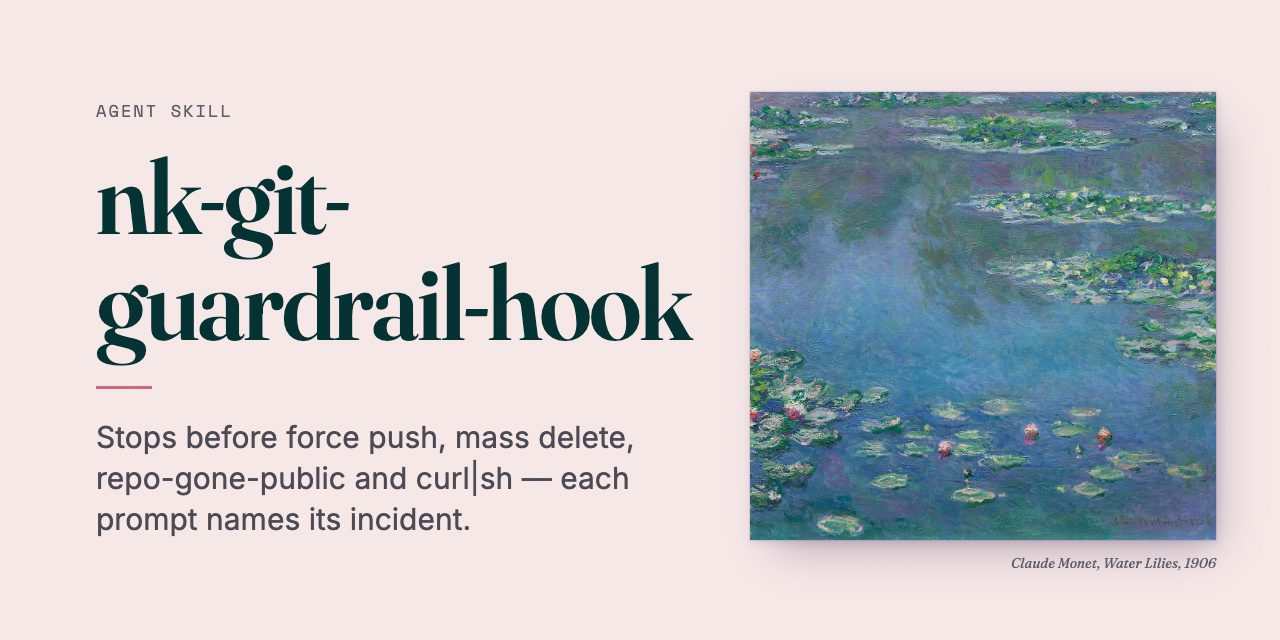
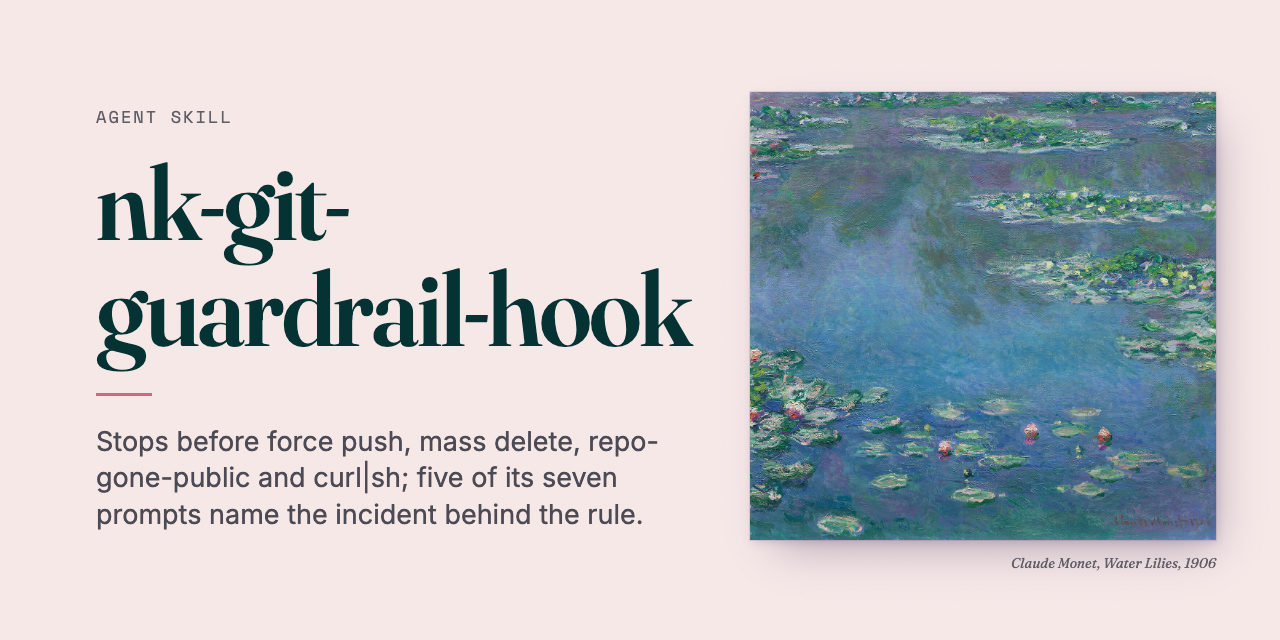
nk-design 0.1.3 and nk-git-guardrail-hook 0.1.2 in the marketplace
The nk-design demo GIF says fourteen machine rules. The guardrail's card,
listing and social preview say five of its seven prompts name the incident
behind the rule, and the note on how these were built names its two rules
with no recorded incident.

diff --git a/docs/index.html b/docs/index.html
@@ -47,7 +47,7 @@ footer{background:var(--anchor);color:var(--on-anchor-2);padding:var(--space-5) 
 <article class="card"><a href="https://github.com/NickkkLian/nk-model"><img src="https://raw.githubusercontent.com/NickkkLian/nickkk-skills/main/gallery/nk-model.gif" alt="nk-model demo" loading="lazy"></a><h2><a href="https://github.com/NickkkLian/nk-model">nk-model</a> <span class="tag creation">creation</span></h2><p>A few assumptions in: a three-statement financial model in one .xlsx, every number a formula, written only if it balances to the penny.</p><pre><code>git clone https://github.com/NickkkLian/nk-model ~/.claude/skills/nk-model</code></pre><pre class="codex"><code>git clone https://github.com/NickkkLian/nk-model.git ~/.agents/skills/nk-model</code></pre></article>
 <article class="card"><a href="https://github.com/NickkkLian/nk-post-kit"><img src="https://raw.githubusercontent.com/NickkkLian/nickkk-skills/main/gallery/nk-post-kit.gif" alt="nk-post-kit demo" loading="lazy"></a><h2><a href="https://github.com/NickkkLian/nk-post-kit">nk-post-kit</a> <span class="tag discipline">discipline</span></h2><p>Turn a finished repo into a thread, a video script and Chinese cards — every number traced to a file, and the posts drawn as pictures before they go out.</p><pre><code>git clone https://github.com/NickkkLian/nk-post-kit ~/.claude/skills/nk-post-kit</code></pre><pre class="codex"><code>git clone https://github.com/NickkkLian/nk-post-kit.git ~/.agents/skills/nk-post-kit</code></pre></article>
 <article class="card"><a href="https://github.com/NickkkLian/nk-evidence-audit"><img src="https://raw.githubusercontent.com/NickkkLian/nickkk-skills/main/gallery/nk-evidence-audit.gif" alt="nk-evidence-audit demo" loading="lazy"></a><h2><a href="https://github.com/NickkkLian/nk-evidence-audit">nk-evidence-audit</a> <span class="tag discipline">discipline</span></h2><p>&quot;Fixed and tested&quot; becomes raw output a second agent judges: supported, not supported, insufficient.</p><pre><code>git clone https://github.com/NickkkLian/nk-evidence-audit ~/.claude/skills/nk-evidence-audit</code></pre><pre class="codex"><code>git clone https://github.com/NickkkLian/nk-evidence-audit.git ~/.agents/skills/nk-evidence-audit</code></pre></article>
-<article class="card"><a href="https://github.com/NickkkLian/nk-git-guardrail-hook"><img src="https://raw.githubusercontent.com/NickkkLian/nickkk-skills/main/gallery/nk-git-guardrail-hook.gif" alt="nk-git-guardrail-hook demo" loading="lazy"></a><h2><a href="https://github.com/NickkkLian/nk-git-guardrail-hook">nk-git-guardrail-hook</a> <span class="tag discipline">discipline</span></h2><p>Stops before force push, mass delete, repo-gone-public and curl|sh — each prompt names its incident.</p><pre><code>git clone https://github.com/NickkkLian/nk-git-guardrail-hook ~/.claude/skills/nk-git-guardrail-hook</code></pre><pre class="codex"><code>git clone https://github.com/NickkkLian/nk-git-guardrail-hook.git ~/.agents/skills/nk-git-guardrail-hook</code></pre></article>
+<article class="card"><a href="https://github.com/NickkkLian/nk-git-guardrail-hook"><img src="https://raw.githubusercontent.com/NickkkLian/nickkk-skills/main/gallery/nk-git-guardrail-hook.gif" alt="nk-git-guardrail-hook demo" loading="lazy"></a><h2><a href="https://github.com/NickkkLian/nk-git-guardrail-hook">nk-git-guardrail-hook</a> <span class="tag discipline">discipline</span></h2><p>Stops before force push, mass delete, repo-gone-public and curl|sh; five of its seven prompts name the incident behind the rule.</p><pre><code>git clone https://github.com/NickkkLian/nk-git-guardrail-hook ~/.claude/skills/nk-git-guardrail-hook</code></pre><pre class="codex"><code>git clone https://github.com/NickkkLian/nk-git-guardrail-hook.git ~/.agents/skills/nk-git-guardrail-hook</code></pre></article>
 <article class="card"><a href="https://github.com/NickkkLian/nk-publish-gate"><img src="https://raw.githubusercontent.com/NickkkLian/nickkk-skills/main/gallery/nk-publish-gate.gif" alt="nk-publish-gate demo" loading="lazy"></a><h2><a href="https://github.com/NickkkLian/nk-publish-gate">nk-publish-gate</a> <span class="tag discipline">discipline</span></h2><p>Finds the path inside the nested archive and the secret still in your git history.</p><pre><code>git clone https://github.com/NickkkLian/nk-publish-gate ~/.claude/skills/nk-publish-gate</code></pre><pre class="codex"><code>git clone https://github.com/NickkkLian/nk-publish-gate.git ~/.agents/skills/nk-publish-gate</code></pre></article>
 <article class="card"><a href="https://github.com/NickkkLian/nk-indent-guard"><img src="https://raw.githubusercontent.com/NickkkLian/nickkk-skills/main/gallery/nk-indent-guard.gif" alt="nk-indent-guard demo" loading="lazy"></a><h2><a href="https://github.com/NickkkLian/nk-indent-guard">nk-indent-guard</a> <span class="tag discipline">discipline</span></h2><p>A one-line JSON edit that re-indented the whole file no longer reaches the commit.</p><pre><code>git clone https://github.com/NickkkLian/nk-indent-guard ~/.claude/skills/nk-indent-guard</code></pre><pre class="codex"><code>git clone https://github.com/NickkkLian/nk-indent-guard.git ~/.agents/skills/nk-indent-guard</code></pre></article>
 <article class="card"><a href="https://github.com/NickkkLian/nk-breakable-selftest"><img src="https://raw.githubusercontent.com/NickkkLian/nickkk-skills/main/gallery/nk-breakable-selftest.gif" alt="nk-breakable-selftest demo" loading="lazy"></a><h2><a href="https://github.com/NickkkLian/nk-breakable-selftest">nk-breakable-selftest</a> <span class="tag discipline">discipline</span></h2><p>Breaks the code your self-test guards, one line at a time, and names the checks that never react.</p><pre><code>git clone https://github.com/NickkkLian/nk-breakable-selftest ~/.claude/skills/nk-breakable-selftest</code></pre><pre class="codex"><code>git clone https://github.com/NickkkLian/nk-breakable-selftest.git ~/.agents/skills/nk-breakable-selftest</code></pre></article>

diff --git a/README.md b/README.md
@@ -66,11 +66,11 @@ When an agent says done, tested or unchanged, these turn the claim into evidence
 Stop a destructive command, a leaked secret or a whole-file reformat before it lands.
 
 <table>
-<tr><td width="50%" valign="top"><a href="https://github.com/NickkkLian/nk-git-guardrail-hook"><img src="gallery/nk-git-guardrail-hook.gif" alt="nk-git-guardrail-hook demo" width="100%"></a><br><b><a href="https://github.com/NickkkLian/nk-git-guardrail-hook">nk-git-guardrail-hook</a></b> · discipline<br>Stops before force push, mass delete, repo-gone-public and curl|sh — each prompt names its incident.<br><code>git clone https://github.com/NickkkLian/nk-git-guardrail-hook ~/.claude/skills/nk-git-guardrail-hook</code></td><td width="50%" valign="top"><a href="https://github.com/NickkkLian/nk-publish-gate"><img src="gallery/nk-publish-gate.gif" alt="nk-publish-gate demo" width="100%"></a><br><b><a href="https://github.com/NickkkLian/nk-publish-gate">nk-publish-gate</a></b> · discipline<br>Finds the path inside the nested archive and the secret still in your git history.<br><code>git clone https://github.com/NickkkLian/nk-publish-gate ~/.claude/skills/nk-publish-gate</code></td></tr>
+<tr><td width="50%" valign="top"><a href="https://github.com/NickkkLian/nk-git-guardrail-hook"><img src="gallery/nk-git-guardrail-hook.gif" alt="nk-git-guardrail-hook demo" width="100%"></a><br><b><a href="https://github.com/NickkkLian/nk-git-guardrail-hook">nk-git-guardrail-hook</a></b> · discipline<br>Stops before force push, mass delete, repo-gone-public and curl|sh; five of its seven prompts name the incident behind the rule.<br><code>git clone https://github.com/NickkkLian/nk-git-guardrail-hook ~/.claude/skills/nk-git-guardrail-hook</code></td><td width="50%" valign="top"><a href="https://github.com/NickkkLian/nk-publish-gate"><img src="gallery/nk-publish-gate.gif" alt="nk-publish-gate demo" width="100%"></a><br><b><a href="https://github.com/NickkkLian/nk-publish-gate">nk-publish-gate</a></b> · discipline<br>Finds the path inside the nested archive and the secret still in your git history.<br><code>git clone https://github.com/NickkkLian/nk-publish-gate ~/.claude/skills/nk-publish-gate</code></td></tr>
 <tr><td width="50%" valign="top"><a href="https://github.com/NickkkLian/nk-indent-guard"><img src="gallery/nk-indent-guard.gif" alt="nk-indent-guard demo" width="100%"></a><br><b><a href="https://github.com/NickkkLian/nk-indent-guard">nk-indent-guard</a></b> · discipline<br>A one-line JSON edit that re-indented the whole file no longer reaches the commit.<br><code>git clone https://github.com/NickkkLian/nk-indent-guard ~/.claude/skills/nk-indent-guard</code></td></tr>
 </table>
 
-- [nk-git-guardrail-hook](https://github.com/NickkkLian/nk-git-guardrail-hook): A PreToolUse hook for Claude Code that stops before the git and shell commands that have actually destroyed work — force push, git add -A in a shared checkout, making a repo public, pushing while behind the remote, a push that records a mass deletion, rm -rf on a project root, curl piped into a shell — and names the incident in the prompt.
+- [nk-git-guardrail-hook](https://github.com/NickkkLian/nk-git-guardrail-hook): A PreToolUse hook for Claude Code that stops before seven risky git and shell commands — force push, git add -A in a shared checkout, making a repo public, pushing while behind the remote, a push that records a mass deletion, rm -rf on a project root, curl piped into a shell.
 - [nk-publish-gate](https://github.com/NickkkLian/nk-publish-gate): Privacy and secret gate to run before anything goes public — a repo, a release zip, a demo folder, a PDF.
 - [nk-indent-guard](https://github.com/NickkkLian/nk-indent-guard): Stop a one-line edit to a JSON or YAML data file from re-indenting the whole file and burying the real change in a 400-line diff.
 
@@ -176,7 +176,8 @@ python3 tools/skill_lint.py --selftest
 
 ## How these were built
 
-- Every rule cites where it came from, an incident or a review round; nothing was added for an imagined risk.
+- Rules cite where they came from, an incident or a review round. Two guardrail rules (`rm -rf` on a project
+  root, `curl | sh`) have no recorded incident; their prompts say why the step is irreversible or dangerous.
 - Every checker's self-test shares the production code path and was broken on purpose to prove it reacts.
 - Detectors fail loud; the guardrail hook fails open.
 - Every repository went through the nk-publish-gate skill (tree and full history) before its first push.
